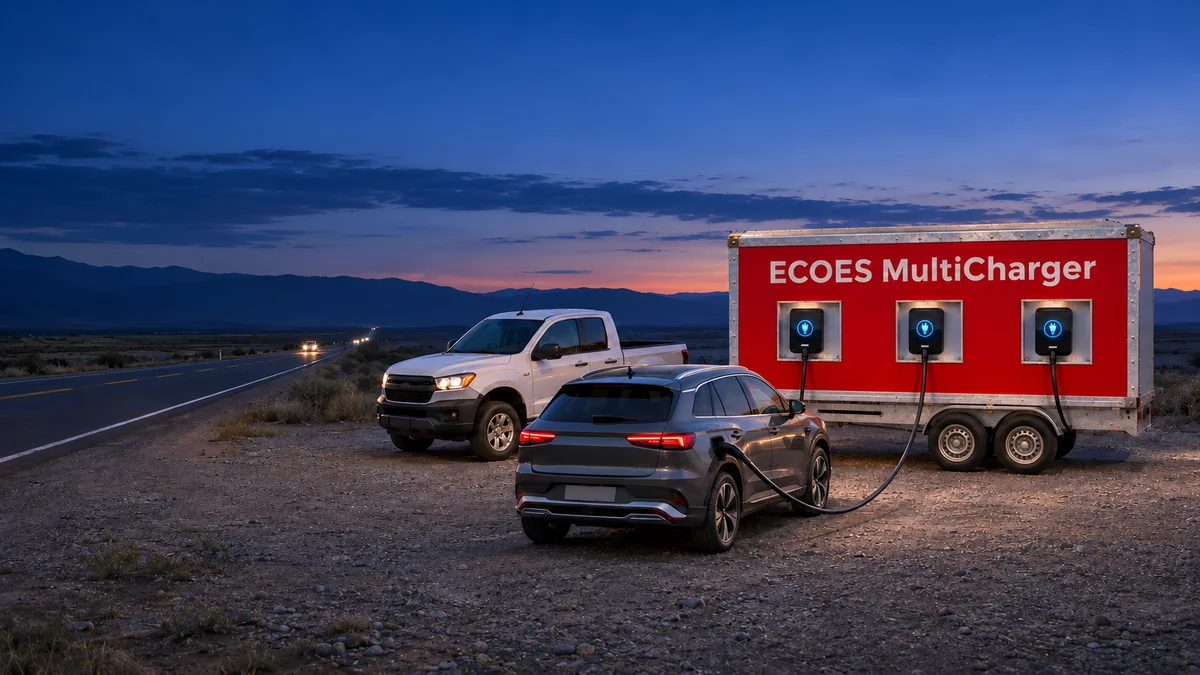
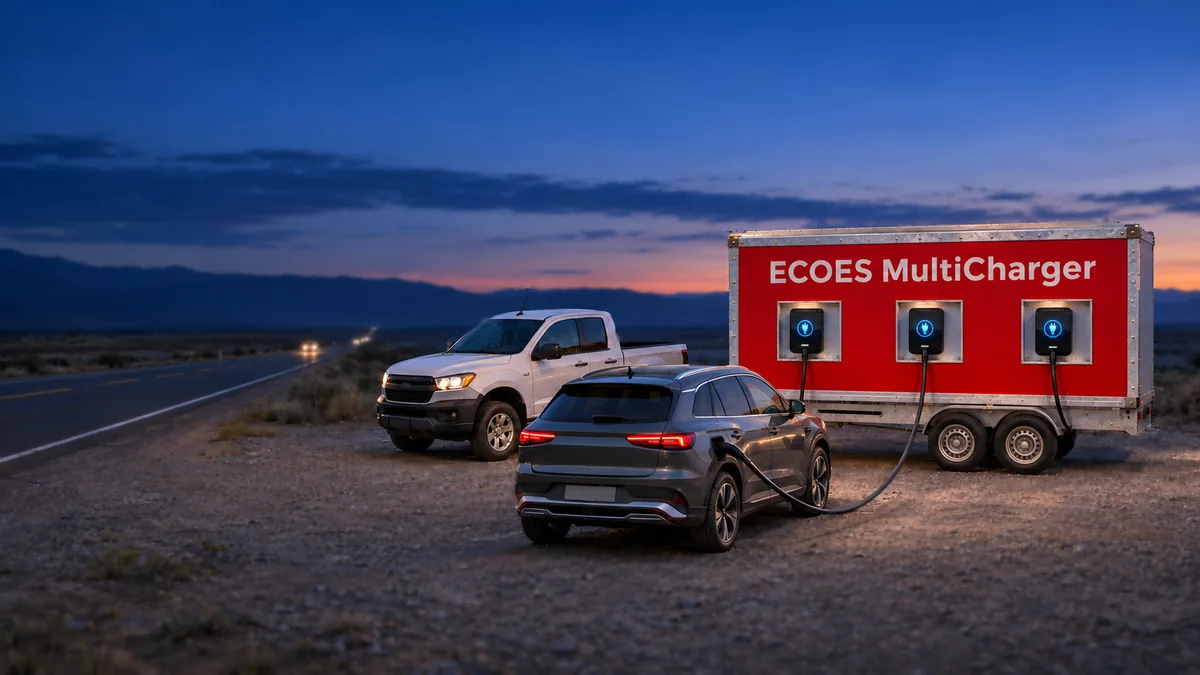
MultiCharger page head: natural ground and landscape (depth of field)
Client: the trailer and the pickup are fine; the ground, the plants and
the landscape look artificial. As a photographer would shoot it: the
trailer, pickup, SUV and cables stay sharp (masked), the ground's fine
"worm" texture from ChatGPT is calmed, the ground and the landscape go
softly out of focus by their distance (in focus at the trailer's
wheels), then one even film grain. Recipe in tools/head-dof.py; the
files are lighter too (3200 WebP 201 KB, was 319 KB).

Claude-Session: https://claude.ai/code/session_01GEpPHxRAoV4DXBRX1UR8qC

diff --git a/tools/head-dof.py b/tools/head-dof.py
@@ -1,0 +1,107 @@
+"""The MultiCharger page head (assets/img/v2/head-multicharger-*), as published since 2026-11-04.
+Client: the AI upscale looked "too obviously AI-edited"; the trailer and the pickup are fine, the ground,
+the plants and the landscape are the problem (ChatGPT's smeared "worm" textures). So, as a photographer
+would shoot it: the trailer, the pickup, the SUV and the cables stay sharp (polygons below, in the
+original's pixels); the ground's fine artificial texture is calmed (shapes and light kept); the ground and
+the landscape go softly out of focus by their distance, in focus at the trailer's wheels (a ground plane
+seen from eye height: the blur grows linearly with the row's distance from the focus band); then one even
+film grain. Not part of the site. Needs numpy, pillow, scipy (see tools/upscale.py for the venv).
+
+  python -I tools/head-dof.py <original.png> <esrgan-x4.png> <out-3200.png> 9 12 "" 0.3
+Then resize to 800/1200/1672/2400/3200, WebP + JPEG 4:4:4.
+"""
+import sys
+import numpy as np
+from PIL import Image, ImageDraw, ImageFilter
+from scipy.ndimage import gaussian_filter
+
+src, x4p, out = sys.argv[1:4]
+R_FAR = float(sys.argv[4]) if len(sys.argv) > 4 else 9.0     # px at 3200: sky, mountains, the far plain
+R_NEAR = float(sys.argv[5]) if len(sys.argv) > 5 else 9.0    # px at 3200: the bottom edge (nearest ground)
+MASK_OUT = sys.argv[6] if len(sys.argv) > 6 else None
+
+W = 3200
+o = Image.open(src).convert('RGB')
+k = W / o.width
+H = round(o.height * k)
+lan = np.asarray(o.resize((W, H), Image.LANCZOS), dtype=np.float32)
+ai = np.asarray(Image.open(x4p).convert('RGB').resize((W, H), Image.LANCZOS), dtype=np.float32)
+base = lan * 0.65 + ai * 0.35
+orig = base.copy()
+
+# ---- what stays sharp (original coordinates)
+TRAILER = [(1013, 318), (1608, 308), (1614, 606), (1478, 608), (1474, 668), (1290, 670), (1292, 606), (1013, 602)]
+PICKUP = [(522, 600), (522, 560), (528, 515), (545, 503), (590, 494), (622, 486), (660, 458), (690, 440),
+          (720, 433), (800, 430), (845, 432), (856, 440), (858, 477), (940, 477), (958, 480), (960, 520),
+          (930, 523), (860, 520), (800, 525), (770, 545), (760, 600), (700, 645), (600, 640), (540, 625)]
+ANTENNA = [(725, 434), (732, 402), (738, 402), (732, 434)]
+SUV = [(722, 600), (735, 565), (760, 540), (780, 530), (810, 518), (870, 510), (950, 511), (1020, 511),
+       (1050, 520), (1080, 535), (1100, 553), (1122, 558), (1125, 585), (1145, 595), (1157, 625), (1160, 690),
+       (1150, 722), (1120, 728), (1035, 735), (1025, 770), (985, 772), (960, 745), (900, 745), (800, 742),
+       (790, 765), (740, 765), (722, 735)]
+CABLES = [[(1002, 612), (1030, 640), (1060, 672), (1095, 703), (1130, 718), (1170, 722), (1210, 714),
+           (1245, 690), (1268, 650), (1282, 600), (1290, 540), (1290, 505)],
+          [(1467, 505), (1472, 560), (1485, 600), (1495, 625)]]
+
+m = Image.new('L', (W, H), 0)
+d = ImageDraw.Draw(m)
+for poly in (TRAILER, PICKUP, ANTENNA, SUV):
+    d.polygon([(x * k, y * k) for x, y in poly], fill=255)
+for line in CABLES:
+    d.line([(x * k, y * k) for x, y in line], fill=255, width=round(8 * k), joint='curve')
+hard = np.asarray(m, dtype=np.float32) / 255
+# keep the subject's colours out of the blurred ground (normalised convolution), and blend with a soft edge
+excl = np.asarray(m.filter(ImageFilter.MaxFilter(9)), dtype=np.float32) / 255
+soft = np.asarray(m.filter(ImageFilter.GaussianBlur(1.6)), dtype=np.float32) / 255
+if MASK_OUT:
+    m.save(MASK_OUT)
+
+# ---- the blur for each row: a ground plane seen from eye height, in focus at the trailer's wheels
+y = np.arange(H) / H
+Y_H, F0, F1 = 350 / 941, 0.68, 0.72          # horizon; the band in focus (the trailer stands there)
+r = np.where(y <= Y_H, R_FAR,
+     np.where(y < F0, R_FAR * (F0 - y) / (F0 - Y_H),
+     np.where(y <= F1, 0.0, R_NEAR * (y - F1) / (1 - F1))))
+
+# ---- the ground and the plants: keep their shapes and light, calm ChatGPT's fine "worm" texture
+#      (high frequencies kept at HF_KEEP below the horizon, outside the vehicles)
+HF_KEEP = float(sys.argv[7]) if len(sys.argv) > 7 else 0.3
+keep0 = 1 - excl
+low = np.stack([gaussian_filter(base[..., c] * keep0, 2.6) for c in range(3)], axis=-1)
+den0 = gaussian_filter(keep0, 2.6)[..., None]
+low = np.where(den0 > 1e-3, low / np.maximum(den0, 1e-3), base)
+yy = (np.arange(H) / H)[:, None]
+ground = np.clip((yy - (350 / 941 + 0.01)) / 0.04, 0, 1) * (1 - soft)
+hf = 1 - (1 - HF_KEEP) * ground
+base = low + (base - low) * hf[..., None]
+
+levels = [0, 1.5, 3, 4.5, 6, 7.5, 9, 10.5, 12]
+levels = [l for l in levels if l <= max(R_FAR, R_NEAR) + 1.5]
+keep = 1 - excl
+stack = []
+for lv in levels:
+    if lv == 0:
+        stack.append(base.copy()); continue
+    s = lv / 2
+    num = np.stack([gaussian_filter(base[..., c] * keep, s) for c in range(3)], axis=-1)
+    den = gaussian_filter(keep, s)[..., None]
+    blurred = np.where(den > 1e-3, num / np.maximum(den, 1e-3), base)
+    stack.append(blurred)
+    print('blur', lv, flush=True)
+lv = np.array(levels, dtype=np.float32)
+idx = np.clip(np.searchsorted(lv, r) - 1, 0, len(lv) - 2)
+t = np.clip((r - lv[idx]) / (lv[idx + 1] - lv[idx]), 0, 1)
+bg = np.empty_like(base)
+for row in range(H):
+    i = idx[row]
+    bg[row] = stack[i][row] * (1 - t[row]) + stack[i + 1][row] * t[row]
+res = soft[..., None] * orig + (1 - soft[..., None]) * bg
+
+# ---- one even grain over the whole picture (as on film), a little stronger in the mid-tones
+rng = np.random.default_rng(7)
+n = gaussian_filter(rng.normal(0, 1, (H, W)).astype(np.float32), 0.55)
+n = n / n.std() * 2.2
+lum = res.mean(axis=2, keepdims=True) / 255
+res = res + n[..., None] * (0.55 + 1.8 * lum * (1 - lum))
+Image.fromarray(res.clip(0, 255).round().astype(np.uint8)).save(out)
+print('done', out, W, H)

diff --git a/CLAUDE.md b/CLAUDE.md
@@ -58,7 +58,7 @@ History: v1 (2026-11-03 morning, the impeccable roll's "special-equipment body":
 - Product truth first: the MultiCharger and the Box must stay exactly as designed (pre-orders are taken from these pictures, the design is registered); check hatches, chargers, lettering, frame, axles before using a returned image. Fallback: upscale the original (Upscayl) instead of regenerating; best: renders from the CAD model, if the client has one.
 - Processing when images arrive: see the header of `tools/image-kit.md` (cut-outs with `tools/cutout.py`, hero sizes 800–2400, rebuild `amb-beach` and `og-image.jpg` from the new hero, provenance with `impeccable embed-prompt`).
 - Asked: the original zip of photos mentioned in the visualisation (maybe higher resolution than the PDF).
-- Received 2026-11-03 (`ECOES-7-photos.zip`, 7 PNGs, hero and heads 1672 × 941, products ~1700–2060 px) and placed: hero `assets/img/home/hero-bluehour-{800,1200,1672}` (blue hour), products `assets/img/v2/cut-{container,multicharger,box}-*.webp` (cut out; the trailer with `--floor=836:110` so the wide grey ground shadow fades), page heads `assets/img/v2/head-{multicharger,box}-*` (`head-franchise-*` removed 2026-11-04: that head is the network globe now) (the MultiCharger head had a stray orange speck by the dot of the i, which read as "MultíCharger": retouched by hand); the MultiCharger head was then enlarged for sharp screens (client 2026-11-04: "the quality of the hero image is not good"; ChatGPT gives at most about 1.7k px, the head is shown up to about 2.8k device px): the pure Real-ESRGAN x4plus result (`tools/upscale.py`) looked "too obviously AI-edited" (smooth, plastic surfaces, over-crisp edges), so the published version is a natural middle – a conventional Lanczos enlargement with 35% of the Real-ESRGAN result for edge definition and a fine luminance grain (the blend script lived in the session scratchpad: mix = lanczos × 0.65 + esrgan × 0.35, grain σ ≈ 2.2 levels, blurred 0.55 px, stronger in the mid-tones); never publish a pure AI upscale. Published at 800/1200/1672/2400/3200 (JPEG 4:4:4, so the lettering on the red body stays crisp), `sizes="(max-width: 999px) 153vh, 100vw"` because phones show the middle of the picture at the head's height. Use the same for any other picture that looks soft, `amb-hero-*` (the Contact head, blurred from the new hero), `og-image.jpg` from the new hero. Checked: lettering, three chargers, Box hatches, two axles; no brand badges. Page heads frame per page: `.page-hero--multicharger/--box` object-position.
+- Received 2026-11-03 (`ECOES-7-photos.zip`, 7 PNGs, hero and heads 1672 × 941, products ~1700–2060 px) and placed: hero `assets/img/home/hero-bluehour-{800,1200,1672}` (blue hour), products `assets/img/v2/cut-{container,multicharger,box}-*.webp` (cut out; the trailer with `--floor=836:110` so the wide grey ground shadow fades), page heads `assets/img/v2/head-{multicharger,box}-*` (`head-franchise-*` removed 2026-11-04: that head is the network globe now) (the MultiCharger head had a stray orange speck by the dot of the i, which read as "MultíCharger": retouched by hand); the MultiCharger head was then enlarged for sharp screens (client 2026-11-04: "the quality of the hero image is not good"; ChatGPT gives at most about 1.7k px, the head is shown up to about 2.8k device px): the pure Real-ESRGAN x4plus result (`tools/upscale.py`) looked "too obviously AI-edited" (smooth, plastic surfaces, over-crisp edges); then the client named the real problem: not the trailer or the pickup but the ground, the plants and the landscape (ChatGPT's smeared "worm" textures). Published version (`tools/head-dof.py`): Lanczos enlargement + 35% Real-ESRGAN, the trailer, pickup, SUV and cables masked sharp, the ground's fine texture calmed (high frequencies at 30% below the horizon), a photographic depth of field (in focus at the trailer's wheels, blur growing with the distance from that band: 9 px far, 12 px at the bottom, at 3200 px), one even film grain. Never publish a pure AI upscale; for other soft pictures use the same recipe. Published at 800/1200/1672/2400/3200 (JPEG 4:4:4, so the lettering on the red body stays crisp), `sizes="(max-width: 999px) 153vh, 100vw"` because phones show the middle of the picture at the head's height. Use the same for any other picture that looks soft, `amb-hero-*` (the Contact head, blurred from the new hero), `og-image.jpg` from the new hero. Checked: lettering, three chargers, Box hatches, two axles; no brand badges. Page heads frame per page: `.page-hero--multicharger/--box` object-position.
 
 ## Content notes
 - ECOES Franchise page: the visualisation's headings are English inside the Bulgarian text ("WHAT IS AN ECOES Franchise & WHY ECOES Franchise", "I. WHAT IS…", "II. WHY…"); the BG page uses "I. Какво е ECOES Franchise" / "II. Защо ECOES Franchise" (reported, offered to keep English). The combined title is shown as the two section links in the page head; the kicker "ПЛАТФОРМА ЗА МОБИЛНА ЗАРЯДНА ИНФРАСТРУКТУРА" is the h1 with the name. Fixed "3- портова" → "3-портова" (reported). Asked: "патентно защитен в … (EUIPO)" – EUIPO registers designs and trade marks, not patents (as on ecoes.eu). Colons after the bold item labels dropped where the label became the item title.
